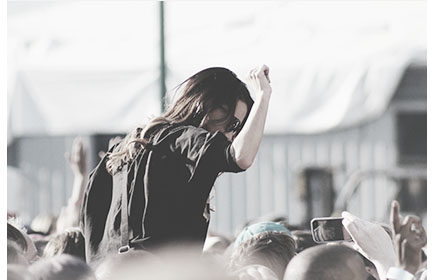
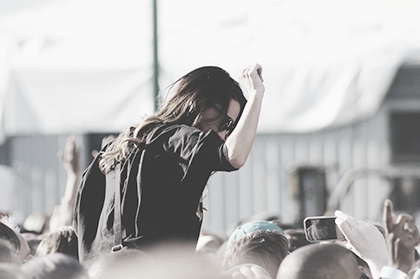
index.html, styles.css

diff --git a/module-3/index.html b/module-3/index.html
@@ -28,7 +28,7 @@
 
     <section class="content">
       <article class="block">
-        <img src="./img/jpg1.jpg" alt="jpg1" width="420" height="280" />
+        <img src="./img/jpg1.jpg" alt="jpg1" width="420" height="279" />
         <p>Lifestyle</p>
         <h2>More than just a music festivale</h2>
         <div>
@@ -41,7 +41,7 @@
       </article>
 
       <article class="block">
-        <img src="./img/jpg2.jpg" alt="jpg2" width="420" height="280" />
+        <img src="./img/jpg2.jpg" alt="jpg2" width="419" height="280" />
         <p>Lifestyle</p>
         <h2>Life tastes better with coffee</h2>
         <div>

diff --git a/module-3/css/styles.css b/module-3/css/styles.css
@@ -34,25 +34,24 @@ li a:hover {
 }
 
 .content {
-  width: 956px;
+  width: 960px;
   margin: 0px auto;
   padding-top: 0px;
-  padding-left: 128px;
+  padding-left: 150px;
 }
 
 .block {
   display: inline-block;
-  width: 416px;
+  width: 420px;
 }
 
 .block {
-  margin-right: 60px;
-  margin-bottom: 68px;
-
+  margin-bottom: 132px;
+  margin-right: 58px;
 }
 
 .block :nth-child(even) {
-  margin: 0px;
+  margin-right: 0px;
 }
 
 div p {
